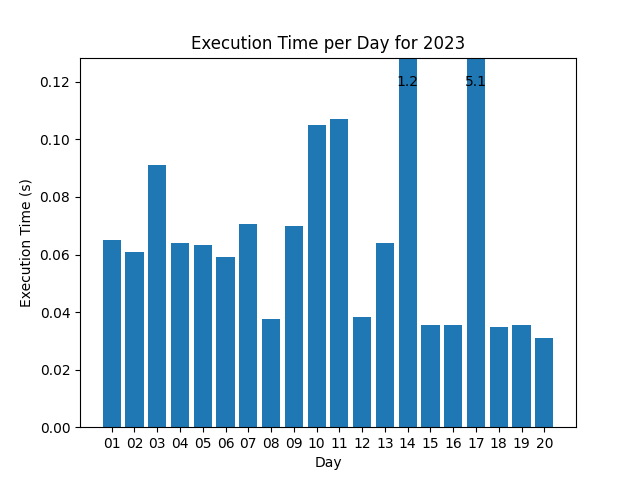
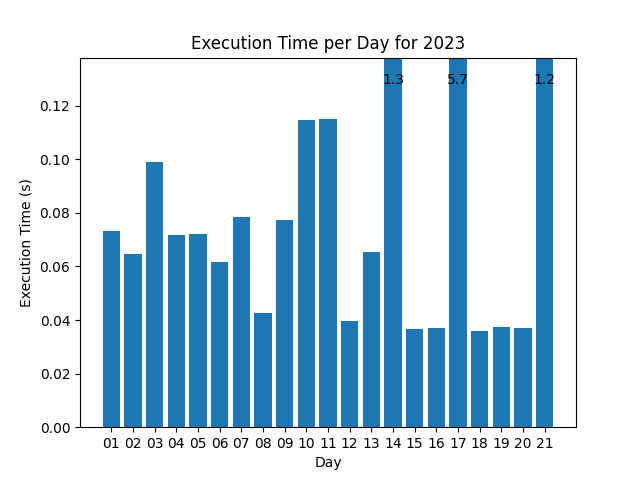
20231222 - Added solution for day_21

diff --git a/2023/day_21/solution.py b/2023/day_21/solution.py
@@ -1,0 +1,81 @@
+import re
+from collections import defaultdict
+from pathlib import Path
+
+SCRIPT_PATH = Path(__file__).resolve().parent
+INPUT_PATH = Path(SCRIPT_PATH, "inputs/input.txt")
+# INPUT_PATH = Path(SCRIPT_PATH, "inputs/example1.txt")
+
+def parse_input(data):
+    # Find the start point, and then split the input into a nested list and return the start point and the garden map
+    data_list = data.splitlines()
+    for idx, line in enumerate(data_list):
+        start = re.search(r'S', line)
+        if start is not None:
+            start = (start.start(), idx)
+            break
+    data_list = [list(line) for line in data_list]
+    return (start, data_list)
+
+def possible_points(point, garden_map):
+    # Loop over all possible directions, and yield each possible new point
+    # Check the remainder of the point axis' divided by 131 to continue moving outward infinitely for part 2
+    directions = [(0, -1), (1, 0), (0, 1), (-1, 0)]
+    for d in directions:
+        new_point = (point[0] + d[0], point[1] + d[1])
+        if garden_map[new_point[1] % 131][new_point[0] % 131] != '#':  # Make sure it wasn't a rock
+            yield new_point
+                
+def bfs(point, garden_map, max_dist):
+    # Use the Breadth first search to find the number of points hit each step, and return the dictionary with key of number of steps taken, 
+    # and value of number of points hit
+    tiles = defaultdict(int)
+    visited = set()
+    queue = [(point, 0)]
+    while queue:  # End when the queue is empty
+        curr_point, dist = queue.pop(0)
+        if dist == (max_dist + 1) or curr_point in visited:  # Don't include points that have already been visited
+            continue
+
+        tiles[dist] += 1
+        visited.add(curr_point)
+
+        for next_point in possible_points(curr_point, garden_map):  # Loop over possible points and add to queue
+            queue.append((next_point, (dist + 1)))
+    return tiles
+
+def calculate_possible_spots(start, garden_map, max_steps):
+    # Get the output from bfs, and then return the sum of all potential stopping points in the tiles output based on even numbers
+    tiles = bfs(start, garden_map, max_steps)
+    return sum(amount for distance, amount in tiles.items() if distance % 2 == max_steps % 2)
+
+def quad(y, n):
+    # Use the quadratic formula to find the output at the large steps based on the first three data points
+    a = (y[2] - (2 * y[1]) + y[0]) // 2
+    b = y[1] - y[0] - a
+    c = y[0]
+    return (a * n**2) + (b * n) + c
+
+def part1(parsed_data):
+    # Max steps are 64
+    return calculate_possible_spots(*parsed_data, 64)
+
+def part2(parsed_data):
+    # Calculate the first three data points for use in the quadratic formula, and then return the output of quad
+    goal = 26501365
+    size = len(parsed_data[1])
+    edge = size // 2
+
+    y = [calculate_possible_spots(*parsed_data, (edge + i * size)) for i in range(3)]
+    
+    return quad(y, ((goal - edge) // size))
+
+if __name__ == "__main__":
+    with open(INPUT_PATH , "r") as f:
+        parsed_data = parse_input(f.read())
+    answer1 = part1(parsed_data)
+    answer2 = part2(parsed_data)
+
+    print("--- ANSWERS ---")
+    print(f"PART1 - The elf could reach {answer1} garden plots")
+    print(f"PART2 - The elf could reach {answer2} garden plots")
